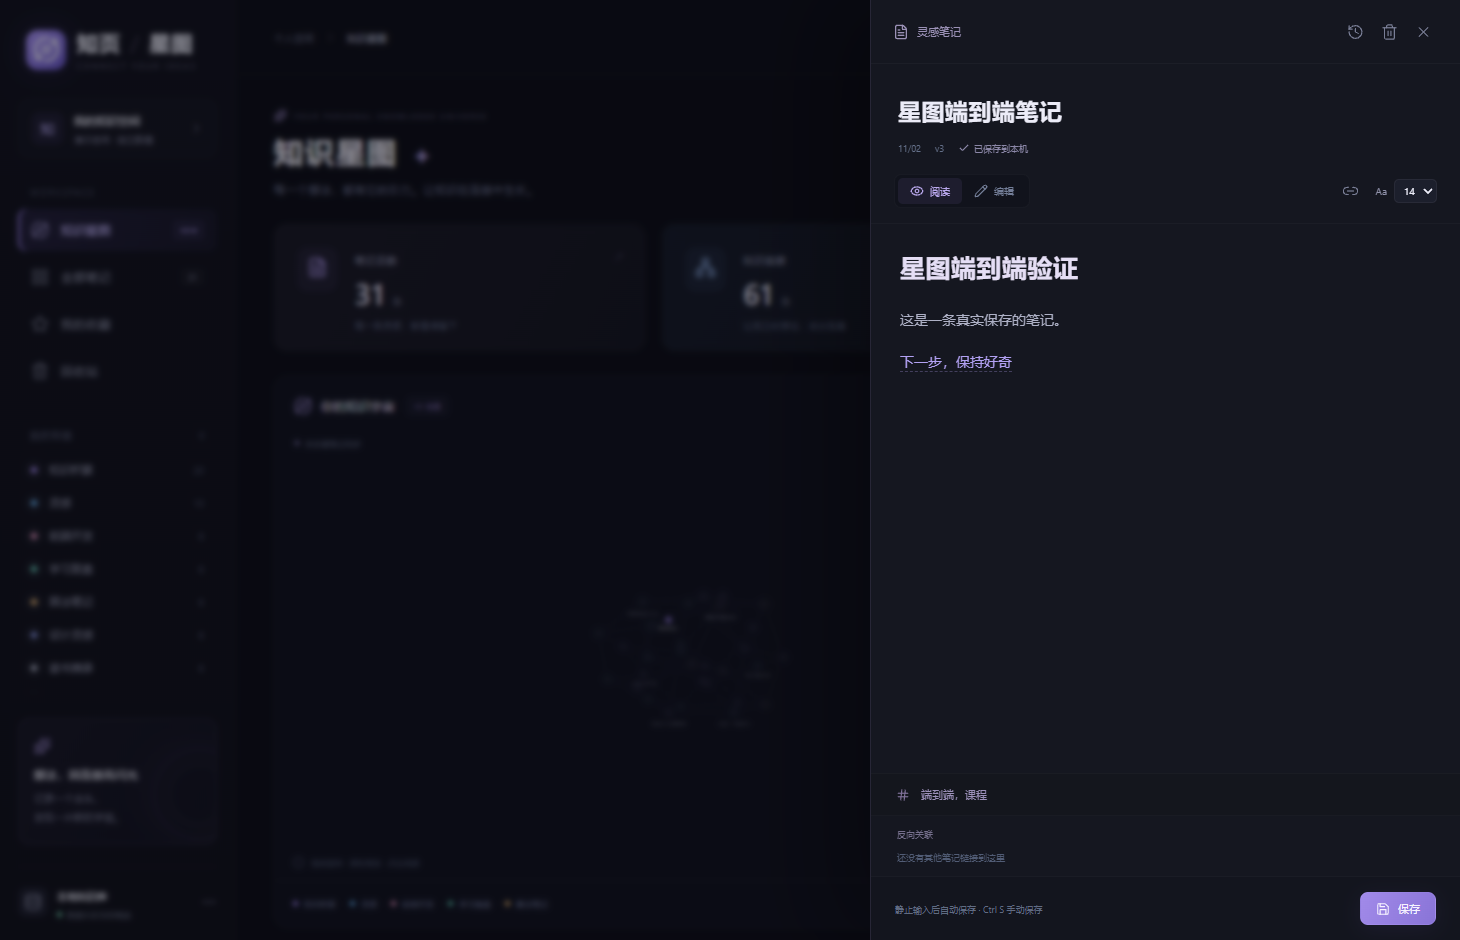
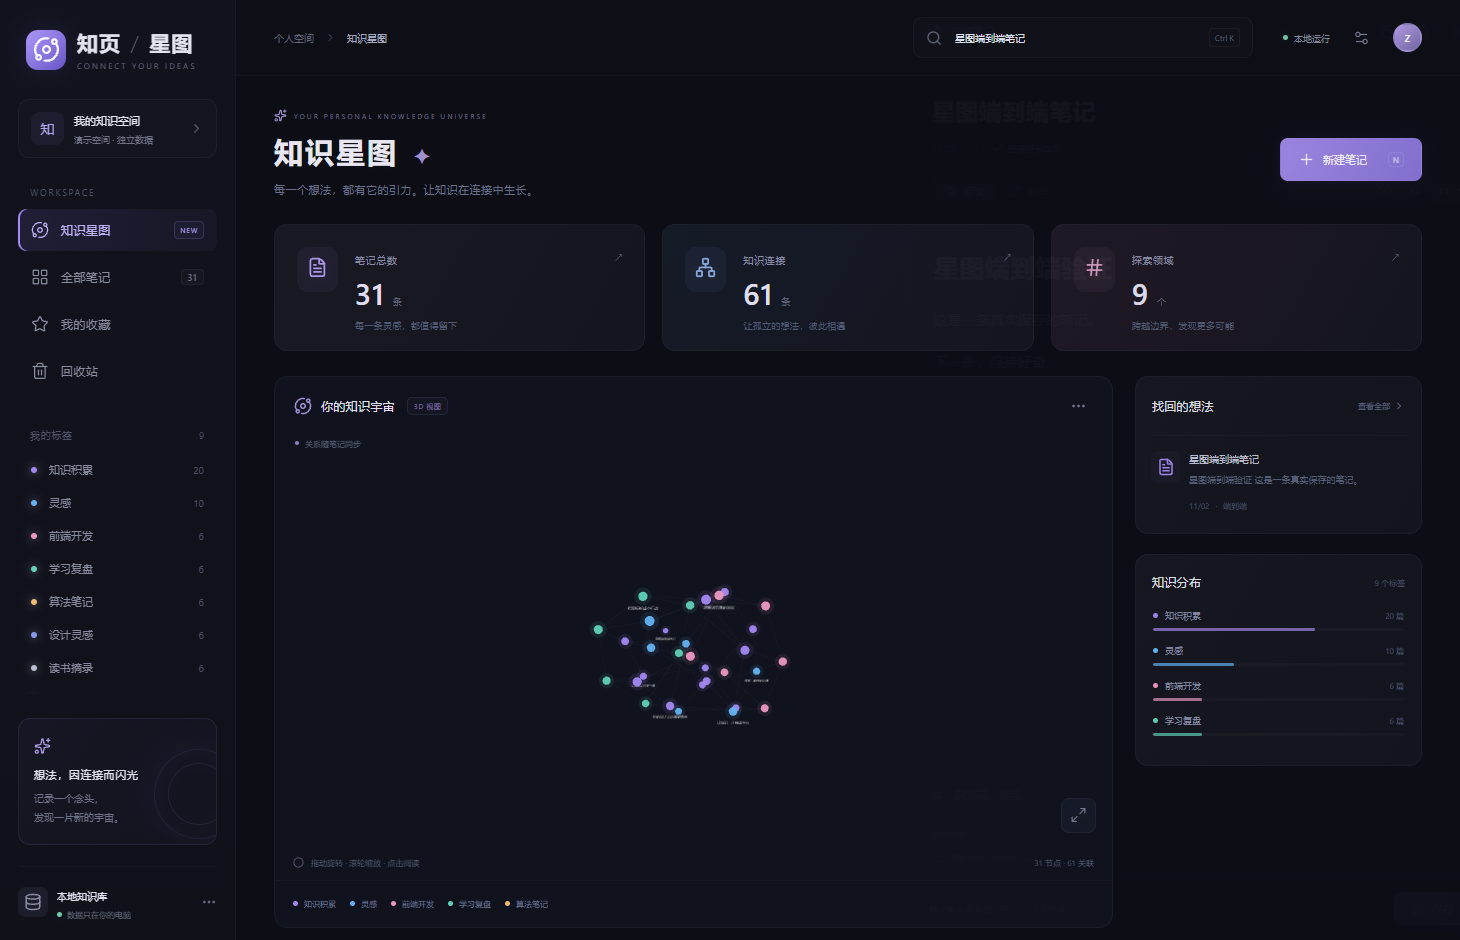
fix(ui): resume queued autosaves and pause covered graph rendering

diff --git a/frontend/tests/galaxy.spec.js b/frontend/tests/galaxy.spec.js
@@ -103,6 +103,46 @@ test("新建、编辑、自动保存、插入关联并在重载后读回", async
     path: path.join(root, "reports/A/galaxy-editor.png"),
   });
 });
+test("保存未完成时继续输入，后续修改仍会自动保存", async ({ page }) => {
+  const note = (
+    await call(page, "create", { title: "连续编辑保存检查", body: "initial" })
+  ).data;
+  await page.getByLabel("搜索笔记", { exact: true }).fill("连续编辑保存检查");
+  await page
+    .locator(".recent-item")
+    .filter({ hasText: "连续编辑保存检查" })
+    .click();
+  await page.getByRole("button", { name: "编辑", exact: true }).click();
+  let count = 0,
+    holdSnapshot = false,
+    snapshotHeld = false;
+  await page.route("**/api/snapshot", async (route) => {
+    if (holdSnapshot && !snapshotHeld) {
+      snapshotHeld = true;
+      const response = await route.fetch();
+      await new Promise((r) => setTimeout(r, 3500));
+      await route.fulfill({ response });
+    } else await route.continue();
+  });
+  await page.route("**/api/save", async (route) => {
+    const response = await route.fetch();
+    if (++count === 1) {
+      holdSnapshot = true;
+      await new Promise((r) => setTimeout(r, 700));
+    }
+    await route.fulfill({ response });
+  });
+  const first = page.waitForRequest((r) => r.url().endsWith("/api/save"));
+  await page.getByLabel("Markdown正文").fill("第一次修改");
+  await first;
+  await page.getByLabel("Markdown正文").fill("保存中继续输入的最终内容");
+  await expect
+    .poll(async () => (await call(page, "note", { id: note.id })).data.body, {
+      timeout: 15000,
+    })
+    .toBe("保存中继续输入的最终内容");
+  await expect(page.getByText("已保存到本机", { exact: true })).toBeVisible();
+});
 test("版本冲突保留输入，取消离开不丢失缓冲", async ({ page }) => {
   const created = (
     await call(page, "create", { title: "冲突检查专用", body: "original" })

diff --git a/frontend/src/main.jsx b/frontend/src/main.jsx
@@ -96,7 +96,7 @@ function IconButton({ icon, label, onClick, ...props }) {
   );
 }
 
-function Galaxy({ graph, matched, query, onOpen }) {
+function Galaxy({ graph, matched, query, onOpen, paused }) {
   const ref = useRef();
   const host = useRef();
   const [size, setSize] = useState({ width: 700, height: 470 });
@@ -111,6 +111,11 @@ function Galaxy({ graph, matched, query, onOpen }) {
     [graph],
   );
   const hits = useMemo(() => new Set(matched), [matched]);
+  useEffect(() => {
+    if (!ref.current) return;
+    if (paused) ref.current.pauseAnimation();
+    else ref.current.resumeAnimation();
+  }, [paused, data]);
   const neighbours = useMemo(() => {
     const s = new Set(hover ? [hover] : []);
     if (hover)
@@ -401,12 +406,12 @@ function App() {
     return task;
   }
   useEffect(() => {
-    if (!dirty || saveError) return;
+    if (!dirty || saveError || saving) return;
     const timer = setTimeout(() => {
       if (!modal && !confirm) saveDraft();
     }, 1400);
     return () => clearTimeout(timer);
-  }, [draft, dirty, saveError, modal, confirm]);
+  }, [draft, dirty, saveError, modal, confirm, saving]);
   function ask(text, mode = "normal") {
     return new Promise((resolve) => setConfirm({ text, mode, resolve }));
   }
@@ -899,6 +904,7 @@ function App() {
                   <GraphBoundary>
                     <Galaxy
                       graph={snapshot.graph}
+                      paused={Boolean(selected)}
                       matched={snapshot.matched_ids}
                       query={filtered}
                       onOpen={openNote}

diff --git a/frontend/playwright.config.js b/frontend/playwright.config.js
@@ -4,6 +4,7 @@ export default defineConfig({
   workers: 1,
   fullyParallel: false,
   timeout: 40000,
+  expect: { timeout: 10000 },
   use: {
     channel: "chrome",
     headless: true,

diff --git a/tools/frozen_galaxy.py b/tools/frozen_galaxy.py
@@ -28,6 +28,7 @@ assert result == 0, (
 value = json.loads(report.read_text(encoding="utf-8"))
 assert value["passed"] and value["native_window"] and value["canvas_present"]
 value["tested_executable"] = exe.name
+value["process_exit_code"] = result
 value["exe_sha256"] = hashlib.sha256(exe.read_bytes()).hexdigest()
 report.write_text(json.dumps(value, ensure_ascii=False, indent=2), encoding="utf-8")
 print(json.dumps(value, ensure_ascii=False))
